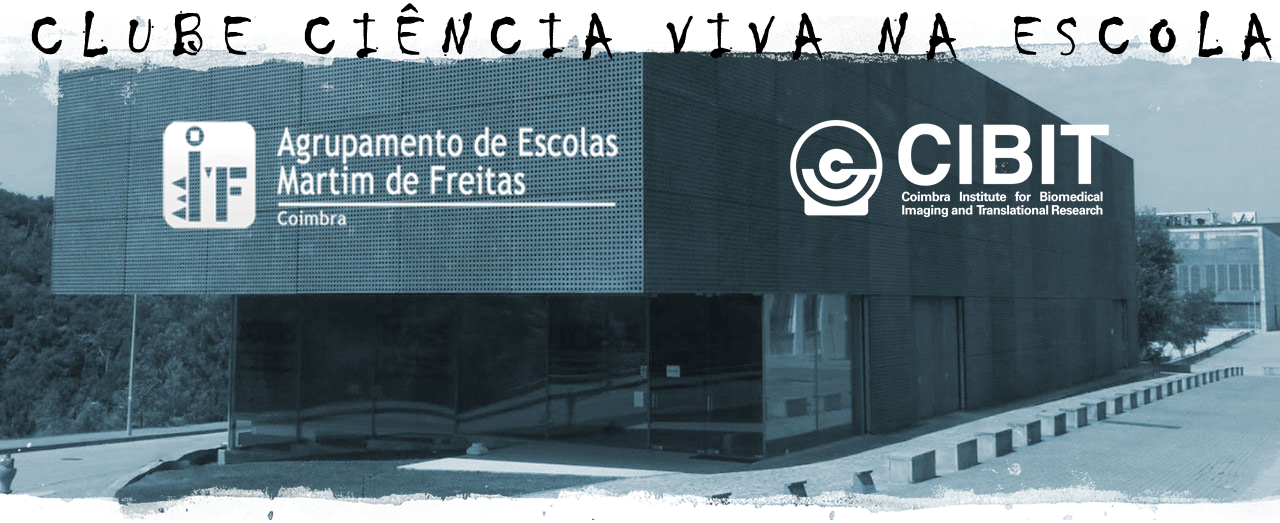
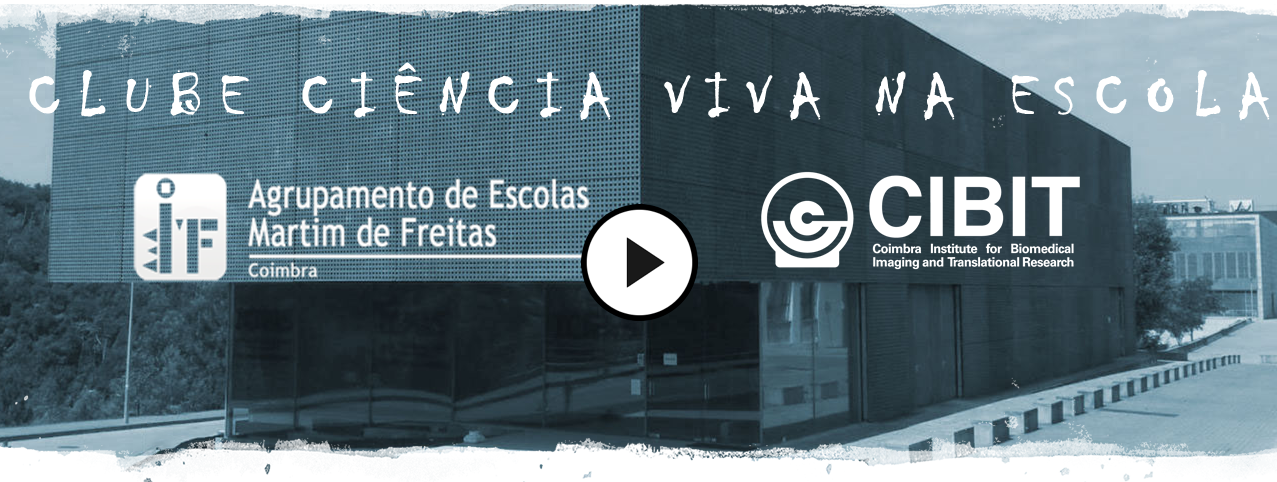
Updated front page and README

diff --git a/README.md b/README.md
@@ -1,4 +1,4 @@
-![capa](https://github.com/CIBIT-ICNAS/clube-ciencia-viva/blob/main/capa.png)
+![capa](https://github.com/CIBIT-ICNAS/clube-ciencia-viva/blob/main/capa.png)(https://vimeo.com/503285857)
 
 Colaboradores: [Inês Almeida](https://orcid.org/0000-0003-0230-3075), [Carolina Travassos](https://orcid.org/0000-0002-8555-9844), [Diana Rodrigues](https://orcid.org/0000-0002-6755-2841), [Fátima Machado](https://orcid.org/0000-0001-8878-1750), [Helena Jorge](https://orcid.org/0000-0003-1745-6891), [Hugo Alexandre](https://orcid.org/0000-0001-9504-6543), [Marta Pais](https://orcid.org/0000-0001-8593-0810), [Marta Teixeira](https://orcid.org/0000-0003-3647-6767), [Ricardo Martins](http://orcid.org/0000-0001-7184-185X), [Sara Santos](https://orcid.org/0000-0002-7594-4765)
 
